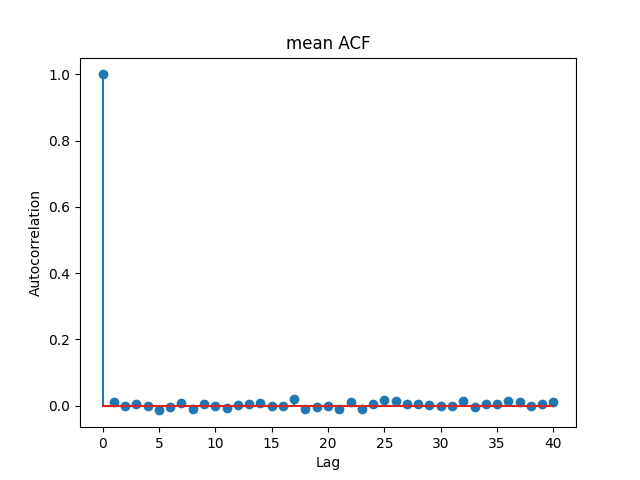
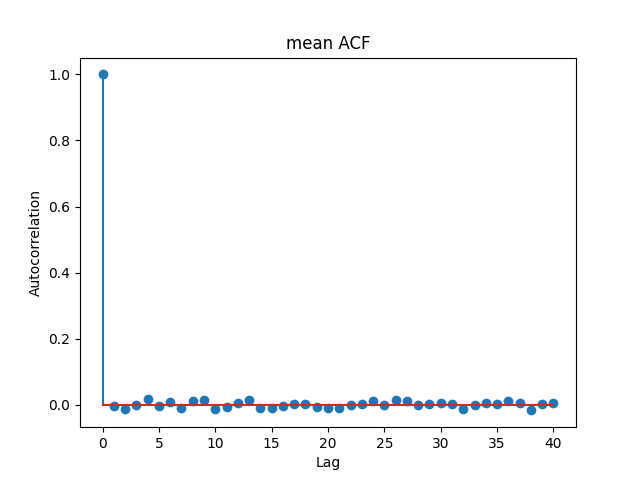
Add tests for covergence with different init values; Help to choose a reasonable burn-in

diff --git a/src/main.py b/src/main.py
@@ -1,6 +1,7 @@
 import utils.dataloader as dataloader
 import utils.modeller as modeller
 import datetime
+import random
 import utils.visualizer as visualizer
 
 # Load and cleanup data
@@ -10,6 +11,27 @@ visualizer.drawDataset(data)
 
 # Set up the prior distribution and additional data and pass into gibbs sampler
 y = data['log return'].to_numpy()
+
+# Check convergence for different initial values / determine the burn-in
+mu_samples_collection = []
+tau_samples_collection = []
+mu_init_collection = []
+tau_init_collection = []
+for i in range(5):
+    _mu_init = random.uniform(-1, 1)
+    _tau_init = random.uniform(0, 1000)
+    _mu_samples, _tau_samples = modeller.gibbs_sampling(200, modeller.gamma_sampler(0,0), modeller.normal_sampler(0,0),
+                                                        y,
+                                                        1, 0.001, 0, 0.001,
+                                                        True, _tau_init, _mu_init)
+    mu_samples_collection.append(_mu_samples)
+    tau_samples_collection.append(_tau_samples)
+    mu_init_collection.append(_mu_init)
+    tau_init_collection.append(_tau_init)
+
+visualizer.determineBurnIn(mu_samples_collection, tau_samples_collection, mu_init_collection, tau_init_collection, "burn-in check")
+
+# Run the gibbs sampler
 mean_samples, tau_samples = modeller.gibbs_sampling(10000, modeller.gamma_sampler(0,0), modeller.normal_sampler(0,0),
                                                     y, # Additional data
                                                     1, 0.001, 0, 0.001) # Prior parameters
@@ -18,9 +40,10 @@ mean_samples, tau_samples = modeller.gibbs_sampling(10000, modeller.gamma_sample
 visualizer.checkSamplerConvergence(mean_samples, "mean")
 visualizer.checkSamplerConvergence(tau_samples, "tau")
 
-# Pick the from the 100th sample for convergence
-mean_samples = mean_samples[1000:]
-tau_samples = tau_samples[1000:]
+# Setup the apprioriate burn-in params here
+burn_in = 100
+mean_samples = mean_samples[burn_in:]
+tau_samples = tau_samples[burn_in:]
 
 visualizer.checkSamplerACF(mean_samples, "mean ACF")
 visualizer.checkSamplerACF(tau_samples, "tau ACF")

diff --git a/src/utils/visualizer.py b/src/utils/visualizer.py
@@ -47,6 +47,33 @@ def checkSamplerConvergence(data: np.ndarray, fig_name: str):
     plt.ylabel("Value")
     plt.savefig(f"data/{fig_name}_samples.png")
 
+def determineBurnIn(mu_samples_collection: list, tau_samples_collection: list,
+                     mu_init_collection: list, tau_init_collection: list, fig_name: str):
+    # Plot and save the convergence graph for mu
+    _color_list = ['blue', 'green', 'red', 'cyan', 'magenta']
+    plt.cla()
+    for i in range(len(mu_samples_collection)):
+        plt.plot(mu_samples_collection[i], 
+                 color=_color_list[i % len(_color_list)], 
+                 label=f"({mu_init_collection[i]:.2f},{tau_init_collection[i]:.2f})")
+        
+    plt.legend()
+    plt.xlabel("Index")
+    plt.ylabel("Value")    
+    plt.savefig(f"data/{fig_name}_mu_convergence.png")
+
+    # Plot and save the convergence graph for tau
+    plt.cla()
+    for j in range(len(tau_samples_collection)):
+        plt.plot(tau_samples_collection[j], 
+        color=_color_list[j % len(_color_list)], 
+        label=f"({mu_init_collection[j]:.2f},{tau_init_collection[j]:.2f})")
+
+    plt.legend()
+    plt.xlabel("Index")
+    plt.ylabel("Value")    
+    plt.savefig(f"data/{fig_name}_tau_convergence.png")
+
 def checkSamplerACF(data: np.ndarray, fig_name: str):
     "Check the autocovariance of samples generated by the Gibbs sampler, expecting convergence to zero"
     plt.cla()

diff --git a/src/utils/modeller.py b/src/utils/modeller.py
@@ -38,18 +38,23 @@ class normal_sampler(sampler):
 def gibbs_sampling(n: int, # sample size
                    gamma_sampler: gamma_sampler, normal_sampler: normal_sampler, # gamma and normal samplers req'd
                    y: np.ndarray, # additionally observed data
-                   tau_prior_alpha: int, tau_prior_beta: int, mu_prior_mean: int, mu_prior_tau: int): # The priors req'd
+                   tau_prior_alpha: int, tau_prior_beta: int, mu_prior_mean: int, mu_prior_tau: int, # The priors req'd
+                   test = False, tau_init = 0, mean_init = 0): # For testing the convergence of the sampler / determine burn-in
     # y: the observed data
     # Intialize the values for gibbs sampler
     # Here we use the mean of the prior
     tau = tau_prior_alpha * tau_prior_beta
     mean = mu_prior_mean
 
-    # Two arrays to store the sampled values
     tau_samples = np.zeros(n)
     mean_samples = np.zeros(n)
-    tau_samples[0] = tau
-    mean_samples[0] = mean
+    if test == False:
+        # Two arrays to store the sampled values
+        tau_samples[0] = tau
+        mean_samples[0] = mean
+    else:
+        tau_samples[0] = tau_init
+        mean_samples[0] = mean_init    
 
     for i in range(1, n):
         
